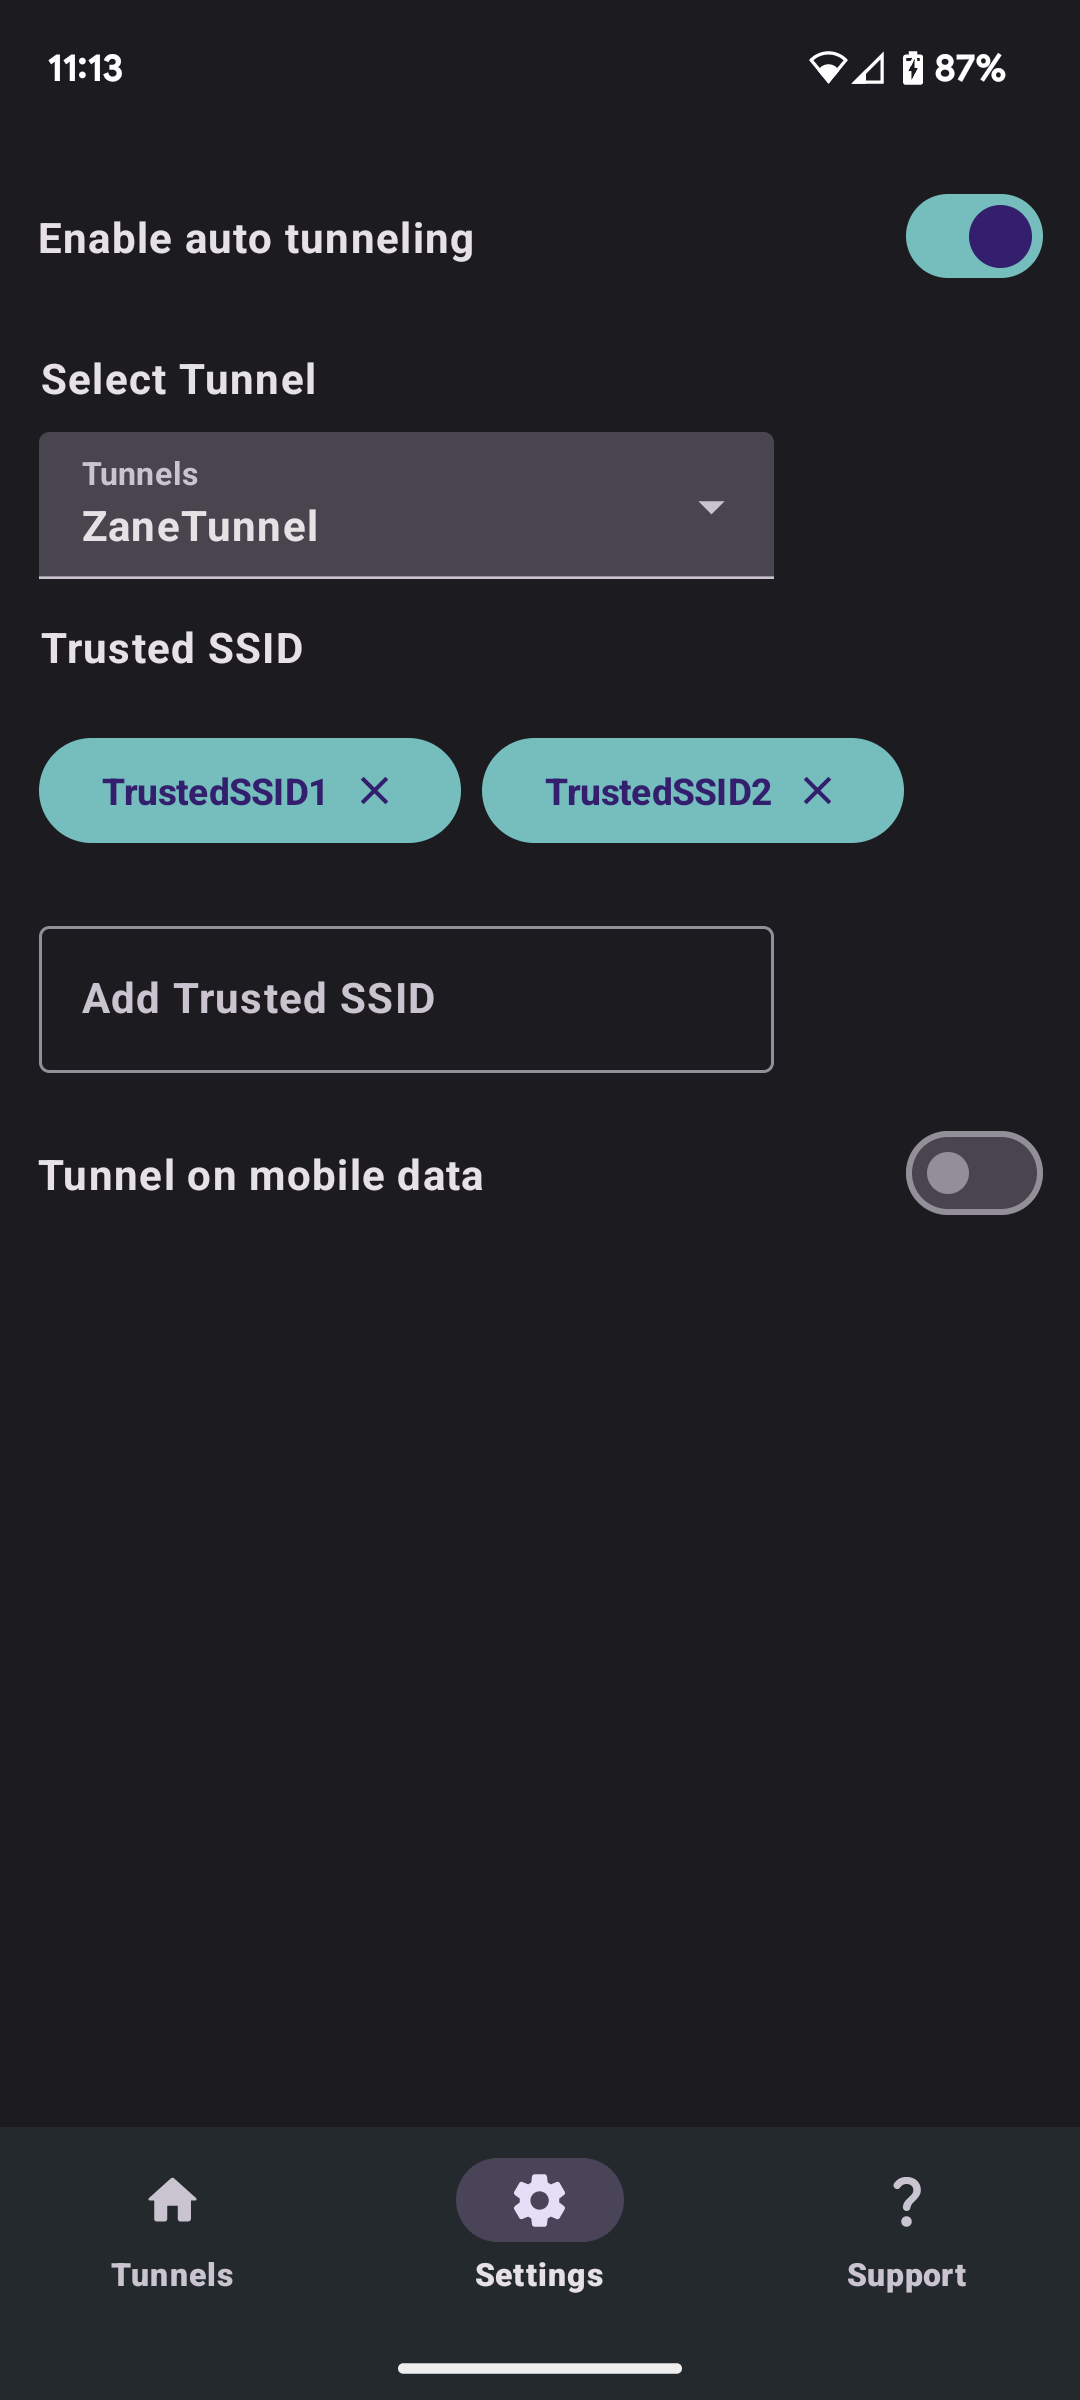
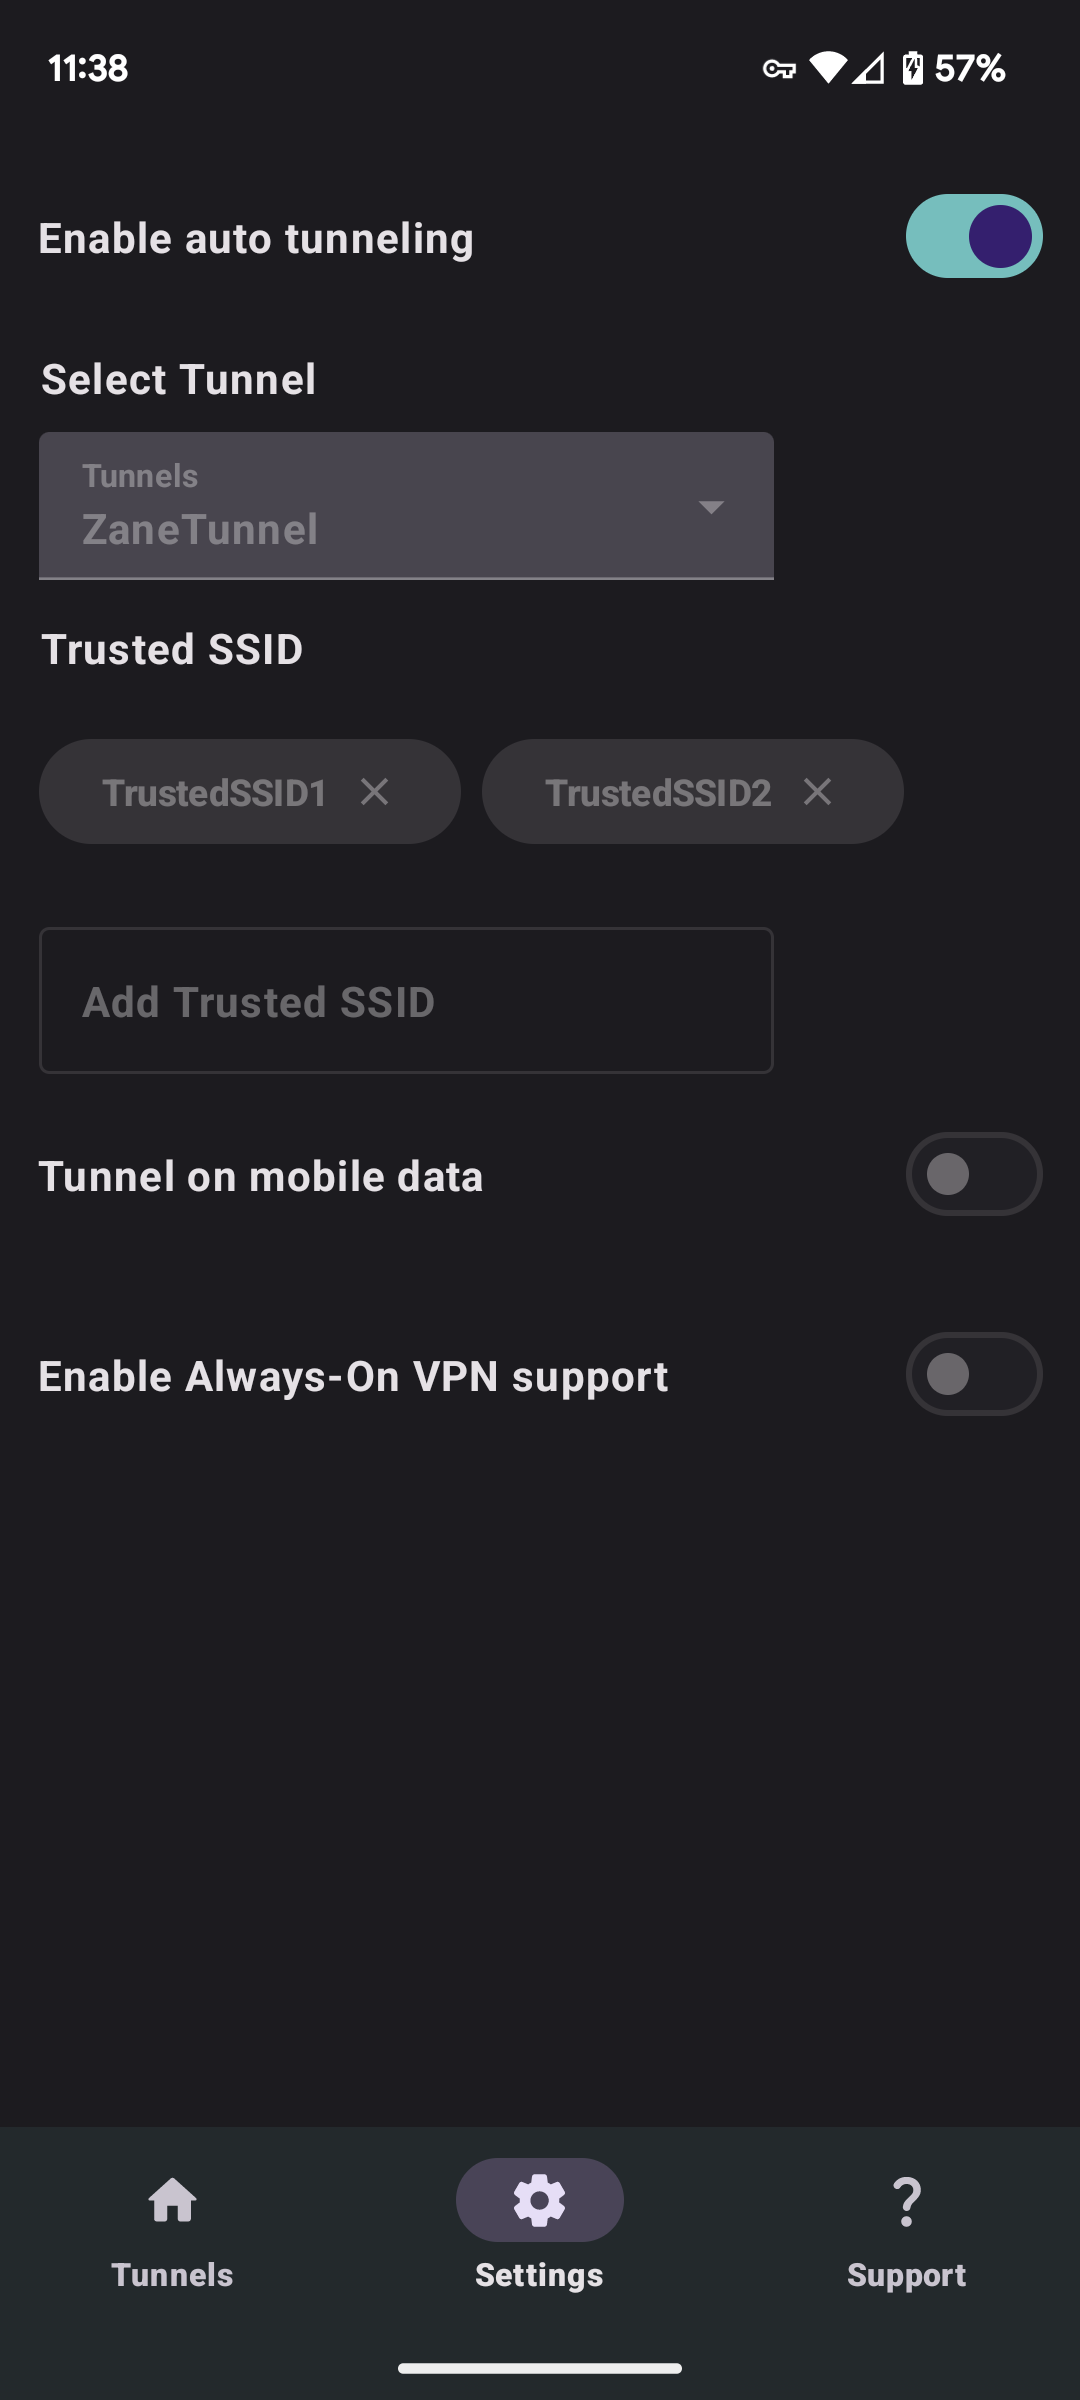
feat: support for Always-On VPN and Android TV
Added support for Android TV

Added support for Always-On VPN in settings

Fixes bug where handshake notification is not dismissed after successful handshake

Fixes bug that allowed you to use Auto tunneling without Location Services enabled. Now checks for Location Services before allowing access to feature.

Closes #2,  Closes #5, Closes #8

diff --git a/app/src/main/java/com/zaneschepke/wireguardautotunnel/ui/screens/settings/SettingsScreen.kt b/app/src/main/java/com/zaneschepke/wireguardautotunnel/ui/screens/settings/SettingsScreen.kt
@@ -94,6 +94,7 @@ fun SettingsScreen(
         rememberPermissionState(Manifest.permission.ACCESS_BACKGROUND_LOCATION)
     var currentText by remember { mutableStateOf("") }
     val scrollState = rememberScrollState()
+    var isLocationServicesEnabled by remember { mutableStateOf(viewModel.checkLocationServicesEnabled())}
 
     LaunchedEffect(viewState) {
         if (viewState.showSnackbarMessage) {
@@ -176,6 +177,34 @@ fun SettingsScreen(
         }
         return
     }
+    if(!isLocationServicesEnabled) {
+        Column(
+            horizontalAlignment = Alignment.CenterHorizontally,
+            verticalArrangement = Arrangement.Center,
+            modifier = Modifier
+                .fillMaxSize()
+                .padding(padding)
+        ) {
+            Text(
+                stringResource(id = R.string.location_services_not_detected),
+                textAlign = TextAlign.Center,
+                modifier = Modifier.padding(15.dp),
+                fontStyle = FontStyle.Italic
+            )
+            Button(onClick = {
+                val locationServicesEnabled = viewModel.checkLocationServicesEnabled()
+                isLocationServicesEnabled = locationServicesEnabled
+                if(!locationServicesEnabled) {
+                    scope.launch {
+                        viewModel.showSnackBarMessage(context.getString(R.string.detecting_location_services_disabled))
+                    }
+                }
+            }) {
+                Text(stringResource(id = R.string.check_again))
+            }
+        }
+        return
+    }
 
     Column(
         horizontalAlignment = Alignment.Start,
@@ -197,6 +226,7 @@ fun SettingsScreen(
         ) {
             Text(stringResource(R.string.enable_auto_tunnel))
             Switch(
+                enabled = !settings.isAlwaysOnVpnEnabled,
                 checked = settings.isAutoTunnelEnabled,
                 onCheckedChange = {
                     scope.launch {
@@ -213,12 +243,12 @@ fun SettingsScreen(
         ExposedDropdownMenuBox(
             expanded = expanded,
             onExpandedChange = {
-                if(!settings.isAutoTunnelEnabled) {
+                if(!(settings.isAutoTunnelEnabled || settings.isAlwaysOnVpnEnabled)) {
                 expanded = !expanded }},
             modifier = Modifier.padding(start = 15.dp, top = 5.dp, bottom = 10.dp),
         ) {
             TextField(
-                enabled = !settings.isAutoTunnelEnabled,
+                enabled = !(settings.isAutoTunnelEnabled || settings.isAlwaysOnVpnEnabled),
                 value = settings.defaultTunnel?.let {
                     TunnelConfig.from(it).name }
                     ?: "",
@@ -266,11 +296,11 @@ fun SettingsScreen(
                     scope.launch {
                         viewModel.onDeleteTrustedSSID(ssid)
                     }
-                }, text = ssid, icon = Icons.Filled.Close, enabled = !settings.isAutoTunnelEnabled)
+                }, text = ssid, icon = Icons.Filled.Close, enabled = !(settings.isAutoTunnelEnabled || settings.isAlwaysOnVpnEnabled))
             }
         }
         OutlinedTextField(
-            enabled = !settings.isAutoTunnelEnabled,
+            enabled = !(settings.isAutoTunnelEnabled || settings.isAlwaysOnVpnEnabled),
             value = currentText,
             onValueChange = { currentText = it },
             label = { Text(stringResource(R.string.add_trusted_ssid)) },
@@ -306,11 +336,29 @@ fun SettingsScreen(
         ) {
             Text(stringResource(R.string.tunnel_mobile_data))
             Switch(
-                enabled = !settings.isAutoTunnelEnabled,
+                enabled = !(settings.isAutoTunnelEnabled || settings.isAlwaysOnVpnEnabled),
                 checked = settings.isTunnelOnMobileDataEnabled,
                 onCheckedChange = {
                     scope.launch {
                         viewModel.onToggleTunnelOnMobileData()
+                    }
+                }
+            )
+        }
+        Row(
+            modifier = Modifier
+                .fillMaxWidth()
+                .padding(14.dp),
+            verticalAlignment = Alignment.CenterVertically,
+            horizontalArrangement = Arrangement.SpaceBetween
+        ) {
+            Text(stringResource(R.string.always_on_vpn_support))
+            Switch(
+                enabled = !settings.isAutoTunnelEnabled,
+                checked = settings.isAlwaysOnVpnEnabled,
+                onCheckedChange = {
+                    scope.launch {
+                        viewModel.onToggleAlwaysOnVPN()
                     }
                 }
             )

diff --git a/app/src/main/java/com/zaneschepke/wireguardautotunnel/ui/screens/settings/SettingsViewModel.kt b/app/src/main/java/com/zaneschepke/wireguardautotunnel/ui/screens/settings/SettingsViewModel.kt
@@ -1,6 +1,8 @@
 package com.zaneschepke.wireguardautotunnel.ui.screens.settings
 
 import android.app.Application
+import android.content.Context
+import android.location.LocationManager
 import androidx.lifecycle.ViewModel
 import androidx.lifecycle.viewModelScope
 import com.zaneschepke.wireguardautotunnel.R
@@ -17,6 +19,7 @@ import kotlinx.coroutines.flow.asStateFlow
 import kotlinx.coroutines.launch
 import javax.inject.Inject
 
+
 @HiltViewModel
 class SettingsViewModel @Inject constructor(private val application : Application,
     private val tunnelRepo : Repository<TunnelConfig>, private val settingsRepo : Repository<Settings>
@@ -31,6 +34,7 @@ class SettingsViewModel @Inject constructor(private val application : Applicatio
     val viewState get() = _viewState.asStateFlow()
 
     init {
+        checkLocationServicesEnabled()
         viewModelScope.launch {
             settingsRepo.itemFlow.collect {
                 val settings = it.first()
@@ -69,7 +73,7 @@ class SettingsViewModel @Inject constructor(private val application : Applicatio
 
     suspend fun toggleAutoTunnel() {
         if(_settings.value.defaultTunnel.isNullOrEmpty() && !_settings.value.isAutoTunnelEnabled) {
-            showSnackBarMessage("Please select a tunnel first")
+            showSnackBarMessage(application.getString(R.string.select_tunnel_message))
             return
         }
         if(_settings.value.isAutoTunnelEnabled) {
@@ -99,8 +103,7 @@ class SettingsViewModel @Inject constructor(private val application : Applicatio
             }
         }
     }
-
-    private suspend fun showSnackBarMessage(message : String) {
+    suspend fun showSnackBarMessage(message : String) {
         _viewState.emit(_viewState.value.copy(
             showSnackbarMessage = true,
             snackbarMessage = message,
@@ -117,5 +120,21 @@ class SettingsViewModel @Inject constructor(private val application : Applicatio
         _viewState.emit(_viewState.value.copy(
             showSnackbarMessage = false
         ))
+    }
+
+    suspend fun onToggleAlwaysOnVPN() {
+        if(_settings.value.defaultTunnel != null) {
+            _settings.emit(
+                _settings.value.copy(isAlwaysOnVpnEnabled = !_settings.value.isAlwaysOnVpnEnabled)
+            )
+            settingsRepo.save(_settings.value)
+        } else {
+            showSnackBarMessage(application.getString(R.string.select_tunnel_message))
+        }
+    }
+    fun checkLocationServicesEnabled() : Boolean {
+        val locationManager =
+            application.getSystemService(Context.LOCATION_SERVICE) as LocationManager
+        return locationManager.isProviderEnabled(LocationManager.NETWORK_PROVIDER)
     }
 }

diff --git a/app/src/main/java/com/zaneschepke/wireguardautotunnel/service/foreground/WireGuardTunnelService.kt b/app/src/main/java/com/zaneschepke/wireguardautotunnel/service/foreground/WireGuardTunnelService.kt
@@ -5,9 +5,11 @@ import android.content.Intent
 import android.os.Bundle
 import com.zaneschepke.wireguardautotunnel.R
 import com.zaneschepke.wireguardautotunnel.receiver.NotificationActionReceiver
+import com.zaneschepke.wireguardautotunnel.repository.Repository
 import com.zaneschepke.wireguardautotunnel.service.notification.NotificationService
 import com.zaneschepke.wireguardautotunnel.service.tunnel.HandshakeStatus
 import com.zaneschepke.wireguardautotunnel.service.tunnel.VpnService
+import com.zaneschepke.wireguardautotunnel.service.tunnel.model.Settings
 import com.zaneschepke.wireguardautotunnel.service.tunnel.model.TunnelConfig
 import dagger.hilt.android.AndroidEntryPoint
 import kotlinx.coroutines.CoroutineScope
@@ -25,6 +27,9 @@ class WireGuardTunnelService : ForegroundService() {
 
     @Inject
     lateinit var vpnService : VpnService
+
+    @Inject
+    lateinit var settingsRepo: Repository<Settings>
 
     @Inject
     lateinit var notificationService : NotificationService
@@ -48,7 +53,16 @@ class WireGuardTunnelService : ForegroundService() {
                     stopService(extras)
                 }
             } else {
-                Timber.e("Tunnel config null")
+                Timber.d("Tunnel config null, starting default tunnel")
+                val settings = settingsRepo.getAll();
+                if(!settings.isNullOrEmpty()) {
+                    val setting = settings[0]
+                    if(setting.defaultTunnel != null && setting.isAlwaysOnVpnEnabled) {
+                        val tunnelConfig = TunnelConfig.from(setting.defaultTunnel!!)
+                        tunnelName = tunnelConfig.name
+                        vpnService.startTunnel(tunnelConfig)
+                    }
+                }
             }
         }
         CoroutineScope(job).launch {
@@ -62,6 +76,7 @@ class WireGuardTunnelService : ForegroundService() {
                         if(!didShowFailedHandshakeNotification) {
                             launchVpnConnectionFailedNotification(getString(R.string.initial_connection_failure_message))
                             didShowFailedHandshakeNotification = true
+                            didShowConnected = false
                         }
                     }
                     HandshakeStatus.HEALTHY -> {
@@ -74,6 +89,7 @@ class WireGuardTunnelService : ForegroundService() {
                         if(!didShowFailedHandshakeNotification) {
                             launchVpnConnectionFailedNotification(getString(R.string.lost_connection_failure_message))
                             didShowFailedHandshakeNotification = true
+                            didShowConnected = false
                         }
                     }
                 }

diff --git a/app/src/main/java/com/zaneschepke/wireguardautotunnel/service/foreground/ForegroundService.kt b/app/src/main/java/com/zaneschepke/wireguardautotunnel/service/foreground/ForegroundService.kt
@@ -4,7 +4,10 @@ import android.app.Service
 import android.content.Intent
 import android.os.Bundle
 import android.os.IBinder
+import com.zaneschepke.wireguardautotunnel.repository.Repository
+import com.zaneschepke.wireguardautotunnel.service.tunnel.model.Settings
 import timber.log.Timber
+import javax.inject.Inject
 
 
 open class ForegroundService : Service() {
@@ -24,6 +27,10 @@ open class ForegroundService : Service() {
             when (action) {
                 Action.START.name -> startService(intent.extras)
                 Action.STOP.name -> stopService(intent.extras)
+                "android.net.VpnService" -> {
+                    Timber.d("Always-on VPN starting service")
+                    startService(intent.extras)
+                }
                 else -> Timber.d("This should never happen. No action in the received intent")
             }
         } else {

diff --git a/app/src/main/java/com/zaneschepke/wireguardautotunnel/service/tunnel/model/Settings.kt b/app/src/main/java/com/zaneschepke/wireguardautotunnel/service/tunnel/model/Settings.kt
@@ -10,5 +10,6 @@ data class Settings(
     var isAutoTunnelEnabled : Boolean = false,
     var isTunnelOnMobileDataEnabled : Boolean = false,
     var trustedNetworkSSIDs : MutableList<String> = mutableListOf(),
-    var defaultTunnel : String? = null
+    var defaultTunnel : String? = null,
+    var isAlwaysOnVpnEnabled : Boolean = false
 )

diff --git a/app/src/main/java/com/zaneschepke/wireguardautotunnel/module/ScannerModule.kt b/app/src/main/java/com/zaneschepke/wireguardautotunnel/module/ScannerModule.kt
@@ -7,7 +7,6 @@ import com.google.mlkit.vision.codescanner.GmsBarcodeScannerOptions
 import com.google.mlkit.vision.codescanner.GmsBarcodeScanning
 import com.zaneschepke.wireguardautotunnel.service.barcode.CodeScanner
 import com.zaneschepke.wireguardautotunnel.service.barcode.QRScanner
-import dagger.Binds
 import dagger.Module
 import dagger.Provides
 import dagger.hilt.InstallIn

diff --git a/app/src/main/java/com/zaneschepke/wireguardautotunnel/ui/screens/main/MainViewModel.kt b/app/src/main/java/com/zaneschepke/wireguardautotunnel/ui/screens/main/MainViewModel.kt
@@ -86,6 +86,7 @@ class MainViewModel @Inject constructor(private val application : Application,
                     val setting = settings[0]
                     setting.defaultTunnel = null
                     setting.isAutoTunnelEnabled = false
+                    setting.isAlwaysOnVpnEnabled = false
                     settingsRepo.save(setting)
                 }
             }

diff --git a/README.md b/README.md
@@ -29,8 +29,8 @@ This is an alternative Android Application for [WireGuard](https://www.wireguard
 <p float="center">
   <img label="Main" style="padding-right:25px" src="asset/main_screen.png" width="200" />
   <img label="Config" style="padding-left:25px" src="./asset/config_screen.png" width="200" />
-  <img label="Settings" style="padding-left:25px" src="./asset/settings_screen.png" width="200" />
-  <img label="Support" style="padding-left:25px" src="./asset/support_screen.png" width="200" />
+  <img label="Settings" style="padding-left:25px" src="asset/settings_screen.png" width="200" />
+  <img label="Support" style="padding-left:25px" src="asset/support_screen.png" width="200" />
 </p>
 
 <span align="left">
@@ -44,6 +44,7 @@ The inspiration for this app came from the inconvenience of constantly having to
 * Add tunnels via .conf file
 * Auto connect to VPN based on Wi-Fi SSID
 * Split tunneling by application
+* Always-on VPN for Android support
 * Configurable Trusted Network list 
 * Optional auto connect on mobile data
 * Automatic service restart after reboot